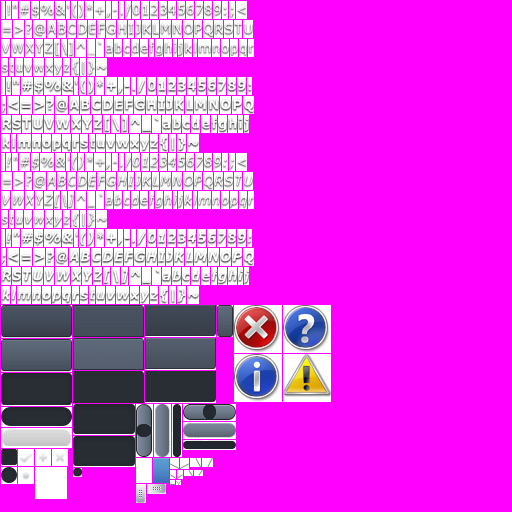
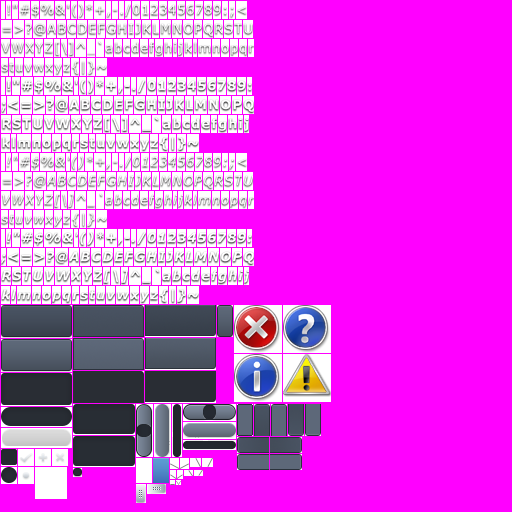
Added basic styles for tab controls.

Changed region(s): [[0.4375, 0.7812, 0.625, 0.9375]]

diff --git a/TwistedLogik.Ultraviolet.UI.Presentation/Controls/TabControl.cs b/TwistedLogik.Ultraviolet.UI.Presentation/Controls/TabControl.cs
@@ -18,7 +18,7 @@ namespace TwistedLogik.Ultraviolet.UI.Presentation.Controls
         public TabControl(UltravioletContext uv, String name)
             : base(uv, name)
         {
-
+            Classes.Add("top");
         }
 
         /// <summary>
@@ -34,7 +34,7 @@ namespace TwistedLogik.Ultraviolet.UI.Presentation.Controls
         /// Identifies the <see cref="TabStripPlacement"/> dependency property.
         /// </summary>
         public static readonly DependencyProperty TabStripPlacementProperty = DependencyProperty.Register("TabStripPlacement", typeof(Dock), typeof(TabControl),
-            new PropertyMetadata<Dock>(Dock.Top));
+            new PropertyMetadata<Dock>(Dock.Top, HandleTabStripPlacementPropertyChanged));
 
         /// <summary>
         /// Called to inform the tab control that one of its items was clicked.
@@ -117,6 +117,38 @@ namespace TwistedLogik.Ultraviolet.UI.Presentation.Controls
                 SelectedIndex = 0;
             }
             base.OnItemsChanged();
+        }
+
+        /// <summary>
+        /// Called when the value of the <see cref="TabStripPlacement"/> dependency property changes.
+        /// </summary>
+        private static void HandleTabStripPlacementPropertyChanged(DependencyObject dobj, Dock oldValue, Dock newValue)
+        {
+            var tabControl = (TabControl)dobj;
+
+            tabControl.Classes.Remove("left");
+            tabControl.Classes.Remove("top");
+            tabControl.Classes.Remove("right");
+            tabControl.Classes.Remove("bottom");
+
+            switch (newValue)
+            {
+                case Dock.Left:
+                    tabControl.Classes.Add("left");
+                    break;
+
+                case Dock.Top:
+                    tabControl.Classes.Add("top");
+                    break;
+
+                case Dock.Right:
+                    tabControl.Classes.Add("right");
+                    break;
+
+                case Dock.Bottom:
+                    tabControl.Classes.Add("bottom");
+                    break;
+            }
         }
 
         /// <summary>

diff --git a/TwistedLogik.Ultraviolet.UI.Presentation/Controls/Primitives/TabPanel.cs b/TwistedLogik.Ultraviolet.UI.Presentation/Controls/Primitives/TabPanel.cs
@@ -5,6 +5,7 @@ namespace TwistedLogik.Ultraviolet.UI.Presentation.Controls.Primitives
     /// <summary>
     /// Represents the part of a <see cref="TabControl"/> which displays the tabbed list of items.
     /// </summary>
+    [UvmlKnownType]
     public class TabPanel : Panel
     {
         /// <summary>
